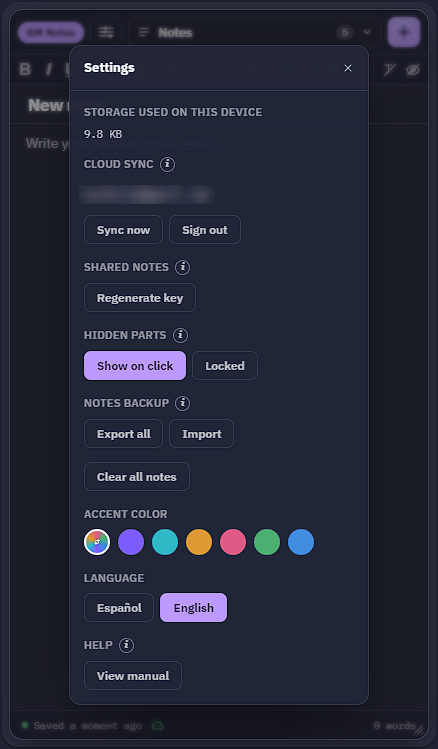
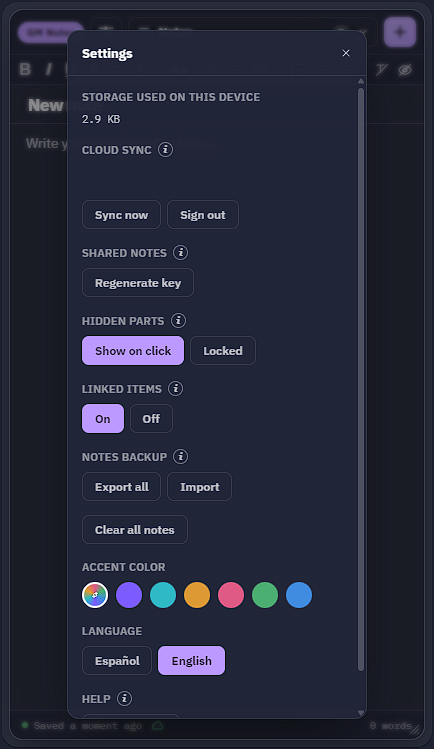
Unlink map items from notes deleted for good; new screenshots (1.8.1)
A note deleted for good (out of the trash, here or on another device)
is unlinked from its map items: at once in the open scene, and in any
other scene when it's opened. Only notes known to be deleted count, so
a link to a note that's simply on another device is kept.

README and store page: a section on links between notes and map items,
and new screenshots (header, formatting, settings, links, context menu).

diff --git a/src/main.ts b/src/main.ts
@@ -2,7 +2,7 @@ import OBR from "@owlbear-rodeo/sdk";
 import "./style.css";
 import { getStrings } from "./i18n";
 import type { Language, Strings } from "./i18n";
-import { getNotes, setNotes, getTrash, setTrash, notesStorageBytes } from "./notes";
+import { getNotes, setNotes, getTrash, setTrash, getErased, setErased, notesStorageBytes } from "./notes";
 import { sanitizeNoteHtml } from "./sanitizeHtml";
 import { escapeHtml, markdownToHtml, flattenToInline, stripHtml } from "./markdown";
 import { exportNote as exportNoteFile, exportAll, contentFromImportFile, isDuplicateTemplate } from "./importExport";
@@ -541,6 +541,26 @@ async function refreshLinkedItems(noteId: string, el: HTMLElement) {
   });
   el.hidden = false;
 }
+// Notes deleted for good (see getErased in notes.ts): remembered, and their map items unlinked in
+// the open scene now, in any other scene when it's opened (with the panel loaded).
+let erased = new Set<string>();
+function noteErased(ids: string[]) {
+  ids.forEach((id) => erased.add(id));
+  void setErased(Array.from(erased)).catch((err) => console.error("Notes: failed to save the deleted notes' ids", err));
+  void unlinkErasedInScene();
+}
+async function unlinkErasedInScene() {
+  if (role !== "GM" || !erased.size) return;
+  try {
+    if (!(await OBR.scene.isReady())) return;
+    await OBR.scene.items.updateItems(
+      (item) => typeof item.metadata[ITEM_LINK_KEY] === "string" && erased.has(item.metadata[ITEM_LINK_KEY] as string),
+      (drafts) => drafts.forEach((d) => { delete d.metadata[ITEM_LINK_KEY]; })
+    );
+  } catch (err) {
+    console.error("Notes: couldn't unlink items from deleted notes", err);
+  }
+}
 async function unlinkItems(ids: string[]) {
   try {
     await OBR.scene.items.updateItems(ids, (drafts) => drafts.forEach((d) => { delete d.metadata[ITEM_LINK_KEY]; }));
@@ -640,6 +660,7 @@ function eraseFromTrash(ids: string[]) {
   if (!ids.length) return;
   trash = trash.filter((t) => !ids.includes(t.id));
   ids.forEach((id) => void deleteNoteFromCloud(id));
+  noteErased(ids);
 }
 // Returns whether it erased anything.
 function purgeExpiredTrash(): boolean {
@@ -4236,6 +4257,8 @@ function mergeCloudNotes(cloudNotes: Note[], removedIds: string[]) {
     }
     trash = trash.filter((t) => t.id !== id);
   };
+  // Deleted for good on another device: its map items here get unlinked too.
+  if (removedIds.length) noteErased(removedIds);
   removedIds.forEach((id) => {
     if (!notes.some((n) => n.id === id) && !trash.some((t) => t.id === id)) return;
     take(id);
@@ -4306,6 +4329,7 @@ async function boot() {
   notes = initialNotes;
   try {
     trash = await getTrash();
+    erased = new Set(await getErased());
   } catch (err) {
     console.error("Notes: failed to load the trash", err);
   }
@@ -4360,9 +4384,11 @@ async function boot() {
   OBR.action.onOpenChange((open) => {
     if (open) checkItemLinkRequest();
   });
-  OBR.scene.onReadyChange(() => {
+  OBR.scene.onReadyChange((ready) => {
+    if (ready) void unlinkErasedInScene();
     if (linkedItemsRefresh) linkedItemsRefresh();
   });
+  void unlinkErasedInScene();
 }
 
 OBR.onReady(() => {

diff --git a/src/notes.ts b/src/notes.ts
@@ -132,6 +132,18 @@ export async function setTrash(trash: Note[]): Promise<void> {
   await store.setItem(trashKeyForRoom(OBR.room.id), trash);
 }
 
+// The ids of notes deleted for good (out of the trash, here or on another device): map items still
+// linked to one of them get unlinked when their scene is open (see main.ts). Only these: a link to a
+// note this device simply doesn't have (another device's, without cloud sync) is left alone.
+const ERASED_CAP = 500;
+export async function getErased(): Promise<string[]> {
+  const stored = await store.getItem<unknown>(`erased:${OBR.room.id}`);
+  return Array.isArray(stored) ? stored.filter((x): x is string => typeof x === "string") : [];
+}
+export async function setErased(ids: string[]): Promise<void> {
+  await store.setItem(`erased:${OBR.room.id}`, ids.slice(-ERASED_CAP));
+}
+
 /** Erases every note stored locally for the CURRENT room — an explicit, GM-initiated reset (e.g.
  * after exporting a backup and wanting a clean slate), not something run automatically. */
 export async function clearAllNotes(): Promise<void> {

diff --git a/README.md b/README.md
@@ -41,12 +41,10 @@ https://notes.ijpedraza.com/manifest.json
   it (but not edit it), live as you write, minus any parts you've hidden
   from them. See
   [Sharing notes with players](#sharing-notes-with-players) below.
-- **Notes linked to map items**: right-click any item on the map (a token,
-  a door, a marker…) and choose **Link note** to pick its note; from then
-  on, **Open note** in that same menu opens it. The note lists its linked
-  items under its title: click a name to select the item on the map, or ×
-  to unlink it. Settings → Linked items turns the menu entry off (the links
-  are kept). Only the GM sees any of this.
+- **Links between notes and map items**: type `[[` to link to another
+  note, or right-click any item on the map to link a note to it — see
+  [Links between notes and map items](#links-between-notes-and-map-items)
+  below.
 - **Templates**: start a note from a ready-made layout instead of a blank
   page — see [Templates](#templates) below.
 - **Copy and paste between notes** keeps all the formatting — pills, colors,
@@ -63,7 +61,7 @@ https://notes.ijpedraza.com/manifest.json
 - Resizable panel: drag the corner handle, or double-click it to return to
   the default size.
 
-![Text formatting, lists, quotes, and pills](docs/screenshot-formatting.png)
+![Pills in every color, and toggles that fold the lines under them](docs/screenshot-formatting.png)
 
 ![Switching between notes, with search](docs/screenshot-notes.png)
 
@@ -107,6 +105,29 @@ with everything else:
   so you can tell there's more.
 
 ![A table showing off its headers, colors, and merged cells](docs/screenshot-tables.png)
+
+## Links between notes and map items
+
+- **Link to another note**: type `[[` anywhere in a note and pick one from
+  the list (typing filters it; ↑/↓ and Enter, or a click). The link shows
+  the note's current title, even after you rename it. Click it to open
+  that note (Ctrl+click opens it straight away). A link to a deleted note
+  turns gray.
+- **Players** can follow links to notes that are shared with them; a link
+  to a private note reaches them as plain text, so it never points at
+  something they can't see.
+- **Link a note to a map item**: right-click any item on the map (a token,
+  a door, a marker…) and choose **Link note**, then pick the note. From
+  then on, **Open note** in that same menu opens it. Select several items
+  to link them all to the same note.
+- **The note lists its items** under its title: click a name to select the
+  item on the map, or × to unlink it. A note deleted for good is unlinked
+  from its items. **Settings → Linked items** takes the menu entry out
+  (the links are kept). Only the GM sees any of this.
+
+![A note linked to a token, with a link to another note and the [[ picker open](docs/screenshot-links.png)
+
+![Right-click a token: Link note](docs/screenshot-link-menu.png)
 
 ## Templates
 

diff --git a/docs/store.md b/docs/store.md
@@ -28,7 +28,7 @@ you made public, read-only.
    formatting.
 3. Switch between notes and search them from the dropdown at the top.
 
-![Text formatting, lists, quotes, and pills](https://raw.githubusercontent.com/nachoijp/owlbear-gm-notes/main/docs/screenshot-formatting.png)
+![Pills in every color, and toggles that fold the lines under them](https://raw.githubusercontent.com/nachoijp/owlbear-gm-notes/main/docs/screenshot-formatting.png)
 
 ![Switching between notes, with search](https://raw.githubusercontent.com/nachoijp/owlbear-gm-notes/main/docs/screenshot-notes.png)
 
@@ -51,6 +51,17 @@ drag into place. Drag a column's border to resize it, or double-click it to
 fit the column to its text. Tables wider than the panel scroll sideways.
 
 ![A table showing off its headers, colors, and merged cells](https://raw.githubusercontent.com/nachoijp/owlbear-gm-notes/main/docs/screenshot-tables.png)
+
+## Links between notes and map items
+
+Type `[[` in a note to link to another one; click the link to open it.
+Right-click any item on the map (a token, a door, a marker…) and choose
+**Link note** to tie a note to it, then **Open note** from that same menu
+whenever you need it. Players only ever see links to notes you've shared.
+
+![A note linked to a token, with a link to another note and the [[ picker open](https://raw.githubusercontent.com/nachoijp/owlbear-gm-notes/main/docs/screenshot-links.png)
+
+![Right-click a token: Link note](https://raw.githubusercontent.com/nachoijp/owlbear-gm-notes/main/docs/screenshot-link-menu.png)
 
 ## Templates
 
